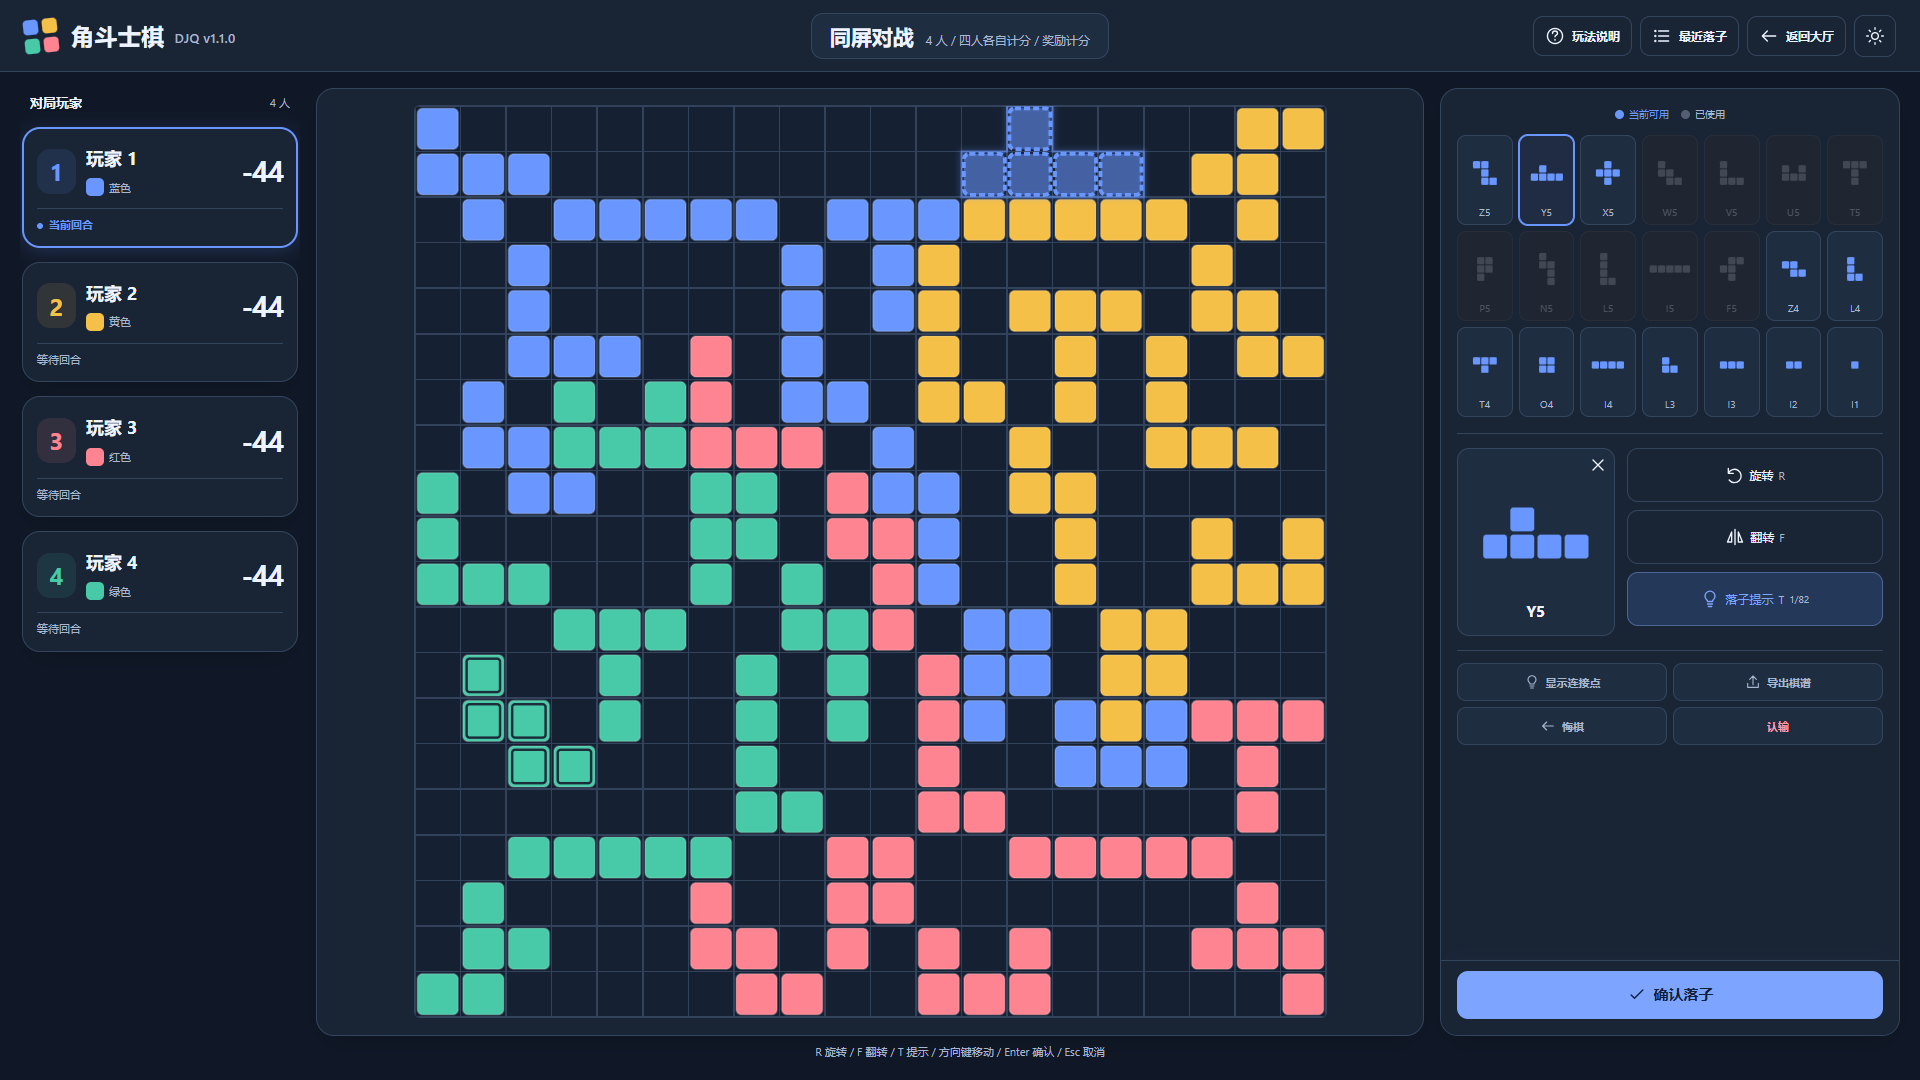
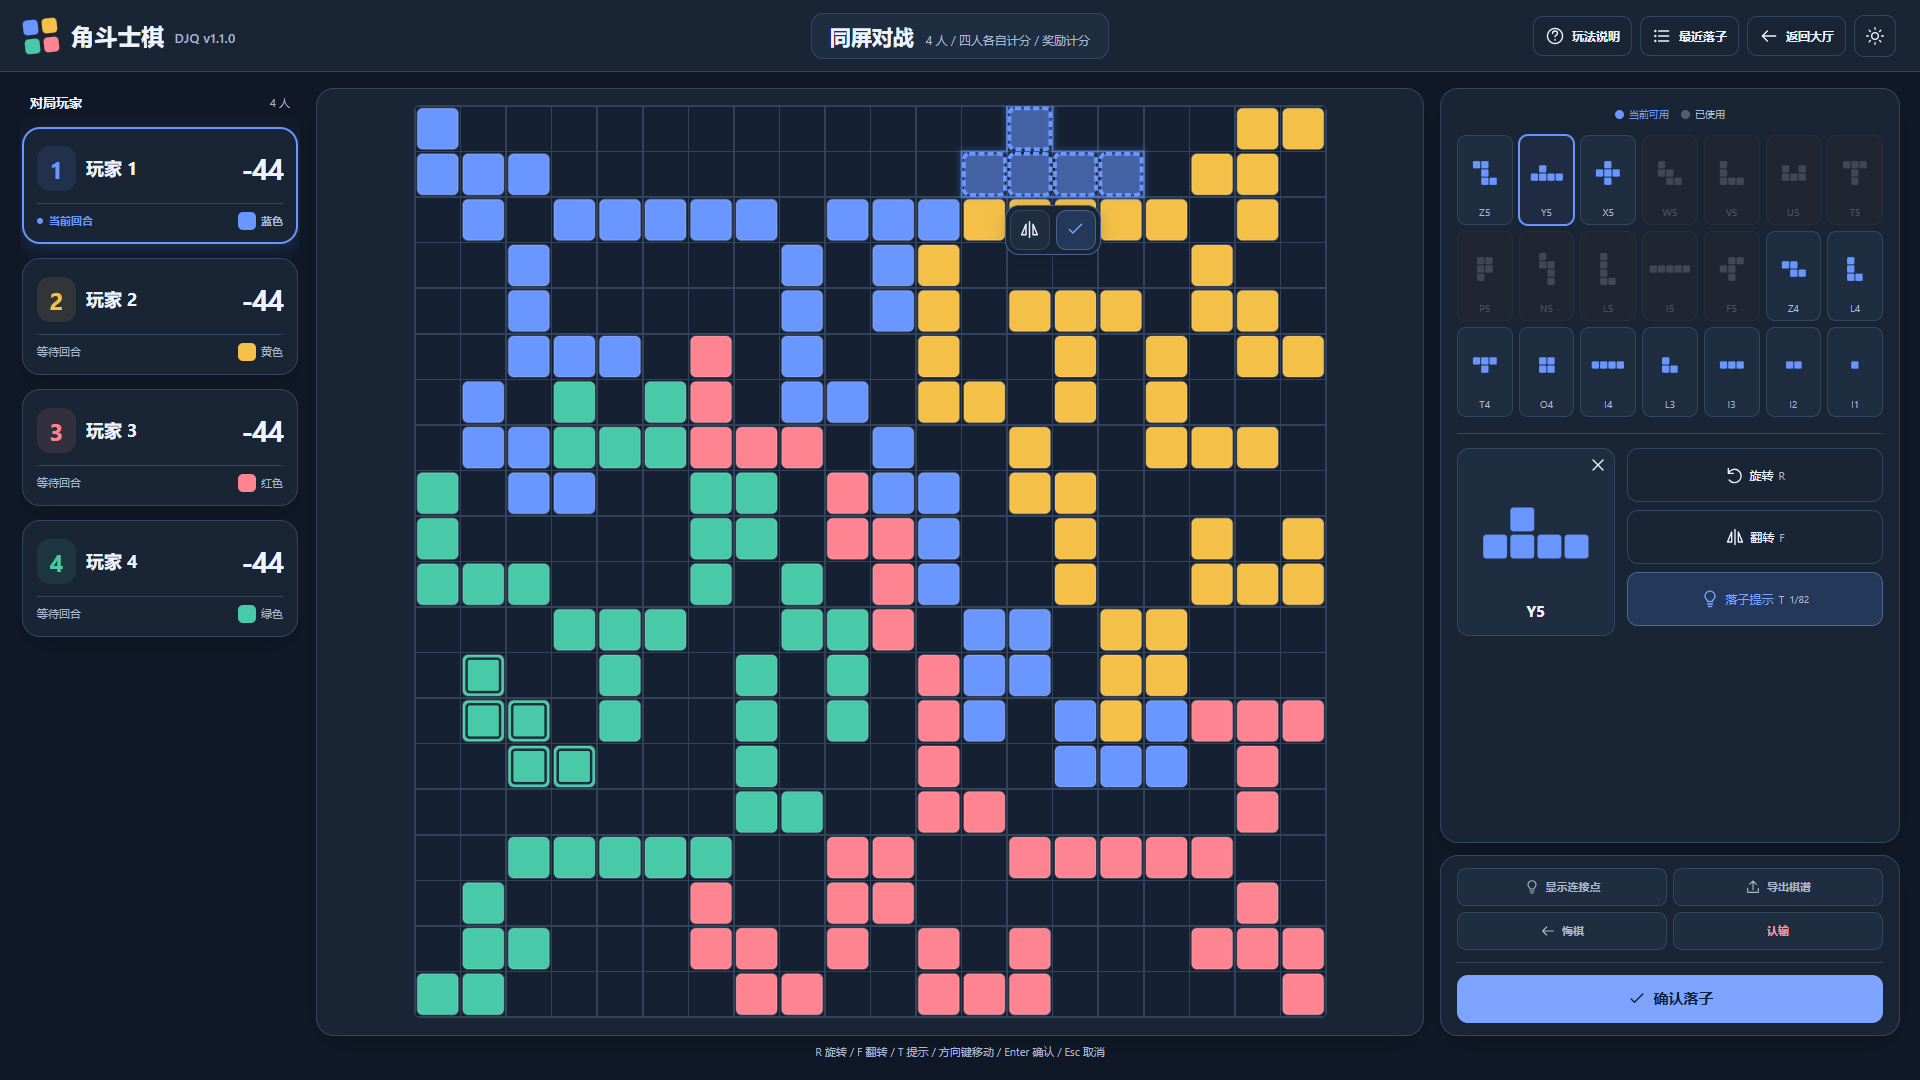
feat: add piece-local actions and refine portrait match layout

diff --git a/public/game.css b/public/game.css
@@ -376,3 +376,59 @@ body[data-screen="game"] #app {
 @media (min-width:761px) and (max-width:930px) and (min-height:561px) {
   .match-header {grid-template-columns:210px minmax(0,1fr) auto}
 }
+
+/* Piece-local actions use HTML buttons, leaving the SVG grid and drag capture intact. */
+.game-shell-v2 .board-frame {position:relative}
+.piece-actions {position:absolute; z-index:3; display:flex; align-items:center; gap:6px; padding:4px; border:1px solid color-mix(in srgb,var(--color) 35%,var(--line)); border-radius:14px; background:var(--surface); box-shadow:0 4px 16px #0b1c3433; pointer-events:none}
+.piece-actions[hidden] {display:none}
+.piece-actions button {display:grid; place-items:center; width:40px; height:40px; min-width:40px; min-height:40px; border:1px solid var(--line); border-radius:10px; color:var(--ink); background:var(--surface-soft); pointer-events:auto; touch-action:manipulation}
+.piece-actions #floating-confirm {color:var(--accent); border-color:color-mix(in srgb,var(--accent) 30%,var(--line)); background:var(--accent-soft)}
+.piece-actions button:disabled {opacity:.4}
+.piece-actions .icon {width:21px; height:21px}
+.game-shell-v2 .player-state {display:flex; align-items:center; justify-content:flex-start; flex-wrap:wrap; gap:6px}
+.game-shell-v2 .player-state.is-current::before {margin-right:0}
+.game-shell-v2 .player-state .player-colors {display:inline-flex; align-items:center; margin:0 0 0 auto}
+.game-shell-v2 .controls-column {min-height:0; min-width:0; display:flex; flex-direction:column; gap:12px}
+.game-shell-v2 .controls-column>.control-panel {flex:1; min-height:0}
+.game-shell-v2 .auxiliary-panel {padding:12px 16px; flex-shrink:0; border-radius:var(--match-radius); box-shadow:var(--shadow); min-width:0}
+.game-shell-v2 .auxiliary-panel .auxiliary-actions {margin:0; padding:0; border:0}
+.game-shell-v2 .auxiliary-panel .commit-section {padding:12px 0 0; margin-top:12px; box-shadow:none; border-top:1px solid var(--line)}
+.game-shell-v2 .ended-dock {display:flex; gap:8px}
+.game-shell-v2 .ended-dock button {flex:1; min-width:0}
+.result-summary {text-align:center}
+.result-summary .result-icon {color:var(--accent); background:var(--accent-soft); width:60px; height:60px; border-radius:50%; display:grid; place-items:center; margin:0 auto 16px}
+.result-summary .result-icon .icon {width:32px; height:32px}
+.result-summary h3 {font-size:21px; line-height:1.6; overflow-wrap:anywhere}
+.result-summary>p {color:var(--muted); font-size:12px; margin-top:6px}
+.result-scores {list-style:none; padding:0; margin:22px 0; text-align:left}
+.result-scores li {display:flex; justify-content:space-between; gap:16px; padding:12px; border-bottom:1px solid var(--line); font-size:13px; overflow-wrap:anywhere}
+.result-scores li.winner {color:var(--accent); background:var(--accent-soft); border-radius:8px}
+.result-scores strong {white-space:nowrap}
+.result-summary>span {color:var(--muted); font-size:12px}
+.result-summary .button {min-width:160px}
+@media (orientation:portrait) and (max-width:1000px) {
+  body[data-screen="game"] #app {height:auto; min-height:100dvh; grid-template-rows:auto 1fr}
+  .game-shell-v2,.game-shell-v2:has(> #game-shortcuts) {display:block; height:auto; padding:12px 12px calc(116px + env(safe-area-inset-bottom))}
+  .game-shell-v2 .game-layout {height:auto; grid-template-columns:minmax(0,1fr); gap:12px}
+  .game-shell-v2 .board-section {grid-row:1; height:calc(100vw - 24px)}
+  .game-shell-v2 .controls-column {grid-row:2; gap:12px}
+  .game-shell-v2 .players-panel {grid-row:3; overflow:visible}
+  .game-shell-v2 .player-cards {display:grid; grid-template-columns:repeat(2,minmax(0,1fr))}
+  .game-shell-v2 .controls-column>.control-panel {flex:none; min-height:0}
+  .game-shell-v2 .selection-tools {grid-template-columns:repeat(2,minmax(0,1fr)); align-items:start}
+  .game-shell-v2 .selection-preview {width:100%; aspect-ratio:1; align-self:start}
+  .game-shell-v2 .selection-preview .selected-piece {height:100%; padding:22px 9px 9px}
+  .game-shell-v2 .selected-piece-art {height:auto; flex:1; min-height:0}
+  .game-shell-v2 .selected-piece-art svg {max-width:none; min-height:0}
+  .game-shell-v2 .transform-tools {align-self:stretch; grid-template-rows:repeat(3,minmax(44px,1fr))}
+  .game-shell-v2 .transform-tools .tool-button {min-height:44px}
+  .game-shell-v2 .auxiliary-panel {border-radius:14px}
+}
+@media (min-width:600px) and (max-height:560px) and (orientation:landscape) {
+  .game-shell-v2 .controls-column {display:none; position:fixed; z-index:40; right:max(8px,env(safe-area-inset-right)); top:8px; bottom:8px; width:min(420px,calc(100vw - 200px)); gap:8px}
+  .game-shell-v2.pieces-open .controls-column {display:flex}
+  .game-shell-v2 .controls-column>.control-panel {display:flex; position:relative; z-index:auto; inset:auto; width:100%; height:auto; min-height:0; flex:1; border-radius:14px}
+  .game-shell-v2 .auxiliary-panel {padding:10px 14px; border-radius:14px}
+  .game-shell-v2 .auxiliary-panel .auxiliary-actions .text-button {min-height:34px}
+  .game-shell-v2 .auxiliary-panel .commit-section {padding-top:8px; margin-top:8px}
+}

diff --git a/docs/UI_V2.md b/docs/UI_V2.md
@@ -20,20 +20,22 @@
 
 后续操作区精简：移除选子标题和库存比例；可用/已使用图例居中，放大棋子仅保留正下方居中的型号。快捷键说明置于页面底部；日志按钮位于玩法说明右侧，弹窗展示完整行动历史并接收联机更新。选择、变换、取得建议后恢复棋盘焦点，修复鼠标选子后Enter只会再次激活棋子按钮的问题；输入框和弹窗保留正常键盘行为，重复Enter不重复提交。品牌和网页标题统一使用项目实际版本v1.1.0，版本元数据由检查脚本与package.json核对，删除保存文案与页脚版本。
 
+本轮布局与落子交互：玩家颜色移到回合状态后面；竖屏按棋盘、拼图与操作、玩家席位的顺序排列，选子保持页面滚动位置，预览卡片和变换按钮平分行宽，预览保持正方形。连接点、导出、悔棋、认输和确认独立成另一张卡片。待落拼图旁新增跟随移动的镜像、打勾按钮，靠近棋盘边缘时自动换侧并限制在盘内，非法落点的打勾禁用。结果改为每局自动打开一次的弹窗，可关闭查看棋盘、通过“查看结果”再次打开；关闭后主题或联机状态刷新不会反复弹出。“再来一局”在弹窗、主按钮和手机操作栏均可用，联机仍由房主发起。
+
 ## 文件清单
 
 | 文件 | 用途 |
 | --- | --- |
 | `public/app.mjs` | 顶部、玩家卡片、三栏、操作区、抽屉、焦点和选中预览接线；复用既有游戏动作 |
-| `public/game-ui.mjs`（新增） | 共享棋形SVG展示、放大选择预览、外轮廓生成与棋盘宽高观察 |
+| `public/game-ui.mjs`（新增） | 共享棋形SVG展示、放大选择预览、外轮廓、跟随按钮位置与棋盘宽高观察 |
 | `public/game.css`（新增） | 仅作用于对局/复盘的布局、浅深色变量和响应式规则 |
 | `public/index.html` | 加载独立对局样式 |
 | `public/i18n.mjs` | 玩家状态、选择预览和抽屉中文文案 |
 | `server/index.mjs` | 仅注册两个新增公开资源；未改HTTP/SSE、鉴权和房间逻辑 |
 | `package.json` | 将新增布局套件纳入 `test:browser` |
 | `tests/browser_layout.mjs`（新增） | 尺寸/模式/预览/键盘/导出/抽屉/旋转/SSE拖动回归与截图 |
-| `tests/game-ui.test.mjs`（新增） | 外轮廓不包含内部接缝的回归 |
-| `tests/browser_controls.mjs`（新增） | Enter/T、合并确认、版本、日志弹窗/实时更新和重复提交保护 |
+| `tests/game-ui.test.mjs`（新增） | 外轮廓无内部接缝、跟随按钮四角边界和移动回归 |
+| `tests/browser_controls.mjs`（新增） | Enter/T、跟随按钮、竖屏滚动/比例/顺序、结果与日志弹窗、重复提交保护 |
 | `scripts/check.mjs` | 核对网页版本元数据、标题与package.json一致 |
 | `docs/UI_V2_VERIFICATION.json`（新增） | 本轮实际验证记录 |
 | `docs/screenshots/ui-v2/`（新增） | 浅色、深色、手机横屏的真实浏览器截图 |
@@ -69,6 +71,14 @@
 
 ![日志弹窗](screenshots/ui-v2/history-dialog.png)
 
+竖屏拼图、独立操作卡片和席位顺序：
+
+![手机竖屏布局](screenshots/ui-v2/phone-portrait-controls.png)
+
+可关闭的结果弹窗：
+
+![结果弹窗](screenshots/ui-v2/result-dialog.png)
+
 ## 验证边界
 
-已在当前主机的 Edge/Chromium 中验证；实体安卓/iOS Safari、其他浏览器实机触感与生产域名部署验收尚未执行。手机横屏受屏幕高度限制，棋子和次要操作在抽屉内局部滚动；桌面右侧展开记录后也允许局部滚动，主确认按钮保持可见。未发现阻塞自动化验收的功能问题。
+已在当前主机的 Edge/Chromium 中验证；实体安卓/iOS Safari、其他浏览器实机触感与生产域名部署验收尚未执行。手机横屏受屏幕高度限制，棋子在抽屉内局部滚动，独立操作卡片和主确认按钮保持可见。未发现阻塞自动化验收的功能问题。
